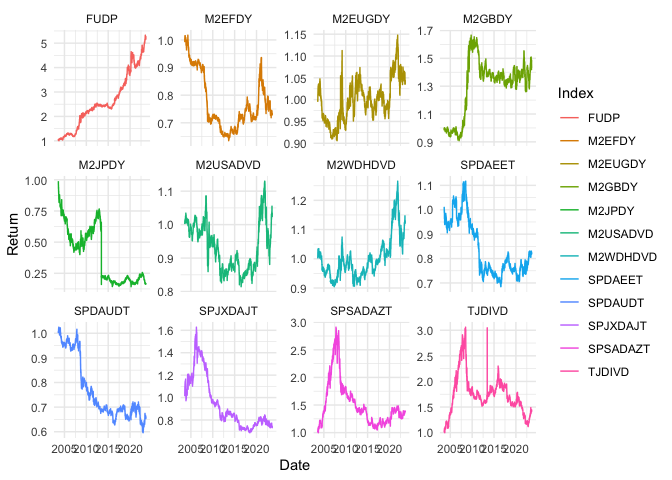
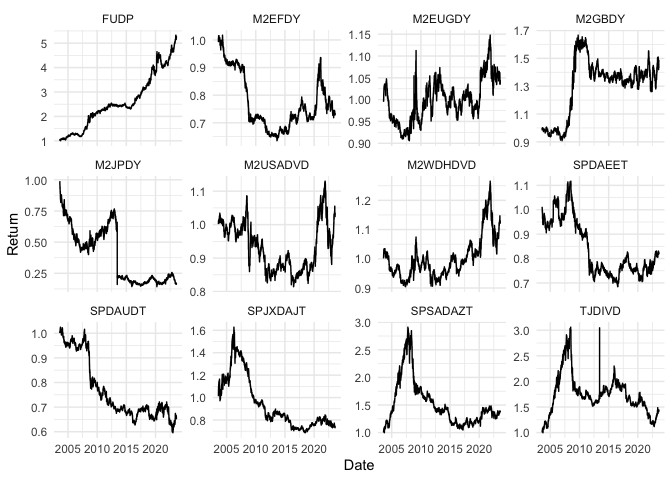
Some updates

diff --git a/Thesis/README.md b/Thesis/README.md
@@ -12,56 +12,43 @@ stock and/or highest growth in dividends for a group of assets.
 
 # Instruments
 
-The global dividend portfolios considered in the table below are sourced
-from various literature from a practitioner perspective. They represent
-stylized portfolio constructed from respective market indexes.
+To investigate the performance of dividend paying strategies, either
+dividend yield or dividend growth I will consider globally traded
+indices and their benchmarks. For concreteness, I will look at those
+prescribed in literature. From this I will find the excess return.
 
-Using a similar approach I will consider broad market indices that are
-used to construct the dividend portfolios listed below.
-
-| Index Ticker      | Index Name                   | Benchmark                                                       | Ticker         | Description                                                                                                                                                                                                                                                                                                                                                                              |
-|:---|:----|:---------|:--|:--------------------------------------------------|
-| DASHDVD CH Equity | DACHENG CSI DVD INDEX FUND A | CSI Dividend Index                                              | SH000922 Index | Dacheng CSI Dividend Index Fund s an open-ended fund incorporated in China. The Fund’s objective is to closely replicates the performance of the CSI Dividend Index and minimizing the tracking error. The fund invests at least 90% of it’s total asset in the members of the tracking index.                                                                                           |
-| SAMEUVK FH Equity | DANSKE INVEST- EUR HI DIV -G | MSCI EMU Value -index                                           | MXEM000V Index | Danske Invest Europe High Dividend Fund is an open-end fund registered in Finland. The Fund invests in equities and equity-related securities of value companies in Europe. The Fund’s aim is to exceed the performance of MSCI EMU Value -index in the long term.                                                                                                                       |
-| 2236 JP Equity    | GX S&P 500 DVD ARISTOCRATS   | S&P 500 Dividend Aristocrats Price Index                        | SPDAUDP Index  | Global X S&P 500 Dividend Aristocrats ETF is an exchange-traded fund incorporated in Japan. The objective is to provide investment results that corresponds to the performance of S&P 500 Dividend Aristocrats Price Index.                                                                                                                                                              |
-| TVEAX US Equity   | GUGGENHEIM RBP DIVIDEND-A    | Dow Jones RBP U.S. Dividend Index                               | INDU Index     | Guggenheim RBP Dividend Fund seeks investment results that correspond generally to the total return performance of the Dow Jones RBP U.S. Dividend Index by investing all of the securities comprising the Index in proportion to the weightings in the Index.                                                                                                                           |
-| GVIYX US Equity   | GUIDESTONE VAL EQTY INDX-INS | Russell 1000 Value Index                                        | RU10VATR Index | Guidestone Value Equity Index Fund aims to provide investment results approximating the aggregate price and dividend performance of the securities included in the Russell 1000 Value Index. The Fund invests in equity securities in the Russell 1000 Value Index, in weightings that approximate the relative composition of the securities contained in the Russell 1000 Value Index. |
-| 315960 KS Equity  | KBSTAR LC HIGH DVD 10 TR ETF | WISE Large Cap High Dividend 10 Total Return Index              | WFNILCHD Index | KB KBSTAR Large Cap High Dividend10TR ETF is an exchange-traded fund established in South Korea. The fund’s objective is to provide investment return that tracks the performance of WISE Large Cap High Dividend 10 Total Return Index.                                                                                                                                                 |
-| SIMDPB1 SJ Equity | SATRIX DIVIDEND+ INDEX FU A2 | FTSE/ JSE Top 40 and FTSE/JSE Mid Cap Index (excl. Real Estate) | NA             | Satrix Dividend+ Index Fund is an open-end fund incorporated in South Africa. The Fund’s objective is to replicate the FTSE/JSE Dividend+ Index. The index consists of 30 high dividend yielding companies within the universe of the FTSE/ JSE Top 40 and FTSE/JSE Mid Cap Index (excl. Real Estate) that are expected to pay the best normal dividends over the forthcoming year.      |
-| LGSEADV FP Equity | STRATEGIE EUROACTION DIV     | MSCI EMU High Dividend Yield en Euro                            | MXEMHDVD Index | Strategie EuroActions Dividendes is an open-end fund registered in France. The objective of the Fund is to obtain an performance at least equal to its index: MSCI EMU High Dividend Yield en Euro. The Fund invest at least 75 percent of its assets in securities listed on that index.                                                                                                |
-| TISCOHD TB Equity | TISCO HIGH DIVIDEND EQUITY   | SET High Dividend 30 Index                                      | SETHDTR Index  | TISCO High Dividend Equity Fund is an open-end fund incorporated in Thailand. The Fund invests at least 80% of its portfolio in the members of the SET High Dividend 30 Index.                                                                                                                                                                                                           |
-| VHYAX US Equity   | VANGUARD HI DVD YLD INDX-ADM | FTSE High Dividend Yield                                        | TGPVAN Index   | Vanguard High Dividend Yield Index Fund seeks the performance of the FTSE High Dividend Yield Index which consists of common stocks of companies that pay higher than average dividends by replicating the index by investing it assets the stocks that make up the index at the same proportion as its weighting in the index.                                                          |
-| VIAAX US Equity   | VANGUARD INTL DVD AP IDX-ADM | Nasdaq International Dividend Achievers Select Index            | DVGITR Index   | Vanguard International Dividend Appreciation Index Fund aims to track the performance of the Nasdaq International Dividend Achievers Select Index. The Fund focuses on high quality companies located in developed and emerging markets that have both the ability and the commitment to grow their dividends over time.                                                                 |
-| VIHAX US Equity   | VANGUARD INTL HI DVD YLD-ADM | FTSE All-World ex U.S. High Dividend Yield Index                | GPVAN0TR Index | Vanguard International High Dividend Yield Index Fund aims to track the performance of the FTSE All-World ex U.S. High Dividend Yield Index by focusing on companies located in developed and emerging markets that are forecasted to have above-average dividend yields.                                                                                                                |
+| TICKER   | NAME                                                                      | Benchmark Ticker | Benchmark Name                          |
+|:-----|:------------------------------------|:---------|:--------------------|
+| FUDP     | FTSE UK Dividend+ Index                                                   | TUKXG            | FTSE 100 Total Return Index GBP         |
+| M2EFDY   | MSCI EM Emerging Markets High Dividend Yield Gross Total Return USD Index | GDUEEGF          | MSCI Daily TR Gross EM USD              |
+| M2GBDY   | MSCI United Kingdom High Dividend Yield Gross Total Return USD Index      | GDDUUK           | MSCI UK Gross Total Return USD Index    |
+| M2JPDY   | MSCI Japan High Dividend Yield Gross Total Return USD                     | TPXDDVD          | Topix Total Return Index JPY            |
+| M2USADVD | MSCI USA Hdy Gross Total Return USD Index                                 | GDDUUS           | MSCI Daily TR Gross USA USD             |
+| M2WDHDVD | MSCI World HIGH DIVIDEND YIELD Gross Total Return Total Return USD Index  | GDDUWI           | MSCI Daily TR Gross World USD           |
+| SPDAEET  | S&P Europe 350 Dividends Aristocrats Total Return Index                   | SPTR350E         | S&P Europe 350 Gross Total Return Index |
+| SPJXDAJT | S&P/JPX Dividend Aristocrats Total Return Index                           | SPXT             | S&P 500 Total Return Index              |
+| SPDAUDT  | S&P 500 Dividend Aristocrats Total Return Index                           | SPXT             | S&P 500 Total Return Index              |
+| SPSADAZT | S&P South Africa Dividend Aristocrats Index ZAR Gross TR                  | JALSH            | FTSE/JSE Africa All Share Index         |
+| TJDIVD   | FTSE/JSE Dividend+ Index Total Return Index                               | JALSH            | FTSE/JSE Africa All Share Index         |
+| M2EUGDY  | MSCI Europe Ex UK High Dividend Yield Gross Total Return USD Index        | GDDUE15X         | MSCI Daily TR Gross Europe Ex UK USD    |
 
 ## Excess Return
 
-Excess returns here are calculated as the difference between cumulative
-index return and benchmark return of several globally traded dividend
-investment portfolios. All of the indexes considered gross total return
-and are compared to the performance of the relevant universe benchmark
-in the same currency.
+I calculate excess returns as the monthly difference return for index
+and benchmark, then calculate cumulative returns for the result.
 
-Cumulative returns are not comparable across different indexes for the
-different durations. Mind that in the analysis.
+The indices across regions have different inception dates therefore not
+purely comparable across regions.
 
-From the results dividend strategies all over the world have been
-consistently giving a positive premium over the market index. Some
-indices have been more successful that others, FUDP giving the highest
-cumulative return amongst all of them.
+From the figure below, results of dividend strategies (High Yield or
+Dividend Growth) all over the world have been consistently returned a
+positive excess over the market index, even though sometimes volatile.
 
 -   consider the mix between high dividend yield versus dividend growth
-    portfolios.
-
--   make the inception date the same just to get comparability across
-    different markets
+    portfolios, so color coordinate the different strategies?
 
 ![](README_files/figure-markdown_github/unnamed-chunk-1-1.png) \##
 Stratification
-
-If we stratify these samples into different equity market stability
-cycles, we can then dichipher when these dividend strategies really
-work.
 
 ``` r
 # retrieve from yahoo
@@ -154,13 +141,13 @@ joined_df <- bind_cols(A, B, C, D, E, F1, G, H, I, J, K, L)
 ``` r
 compare <- joined_df %>% select(date...1, FUDP, M2EFDY, M2EUGDY, M2GBDY, M2JPDY, M2USADVD, M2WDHDVD, SPDAEET, SPDAUDT, SPJXDAJT, SPSADAZT, TJDIVD) %>% gather(Index , Return , -date...1)
 
-plot <- compare %>% ggplot(aes(x = date...1, y = Return, color = Index)) +
-  geom_line() +
-  labs(x = "Date", y = "Return", color = "Index") +
-  theme_minimal() +
-  facet_wrap(~ Index, scales = "free_y", ncol = 4)
+g <- compare %>% ggplot(., aes(x = date...1, y = Return)) +
+geom_line() +
+labs(x = "Date", y = "Return") +
+theme_minimal() +
+facet_wrap(~ Index, scales = "free_y", ncol = 4)
 
-plot 
+g
 ```
 
 ![](README_files/figure-markdown_github/unnamed-chunk-2-1.png)
